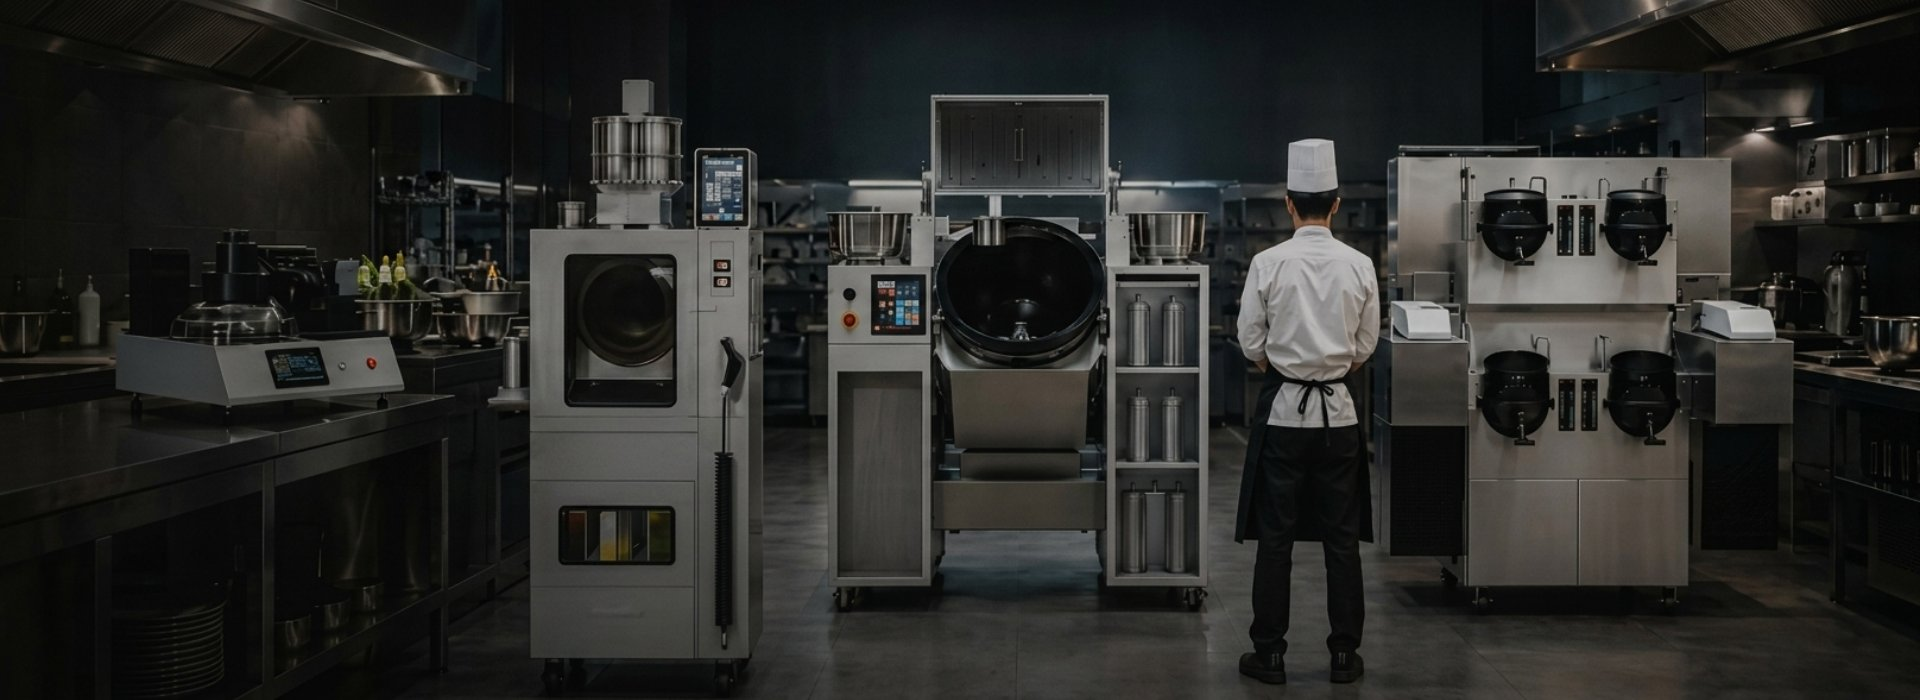
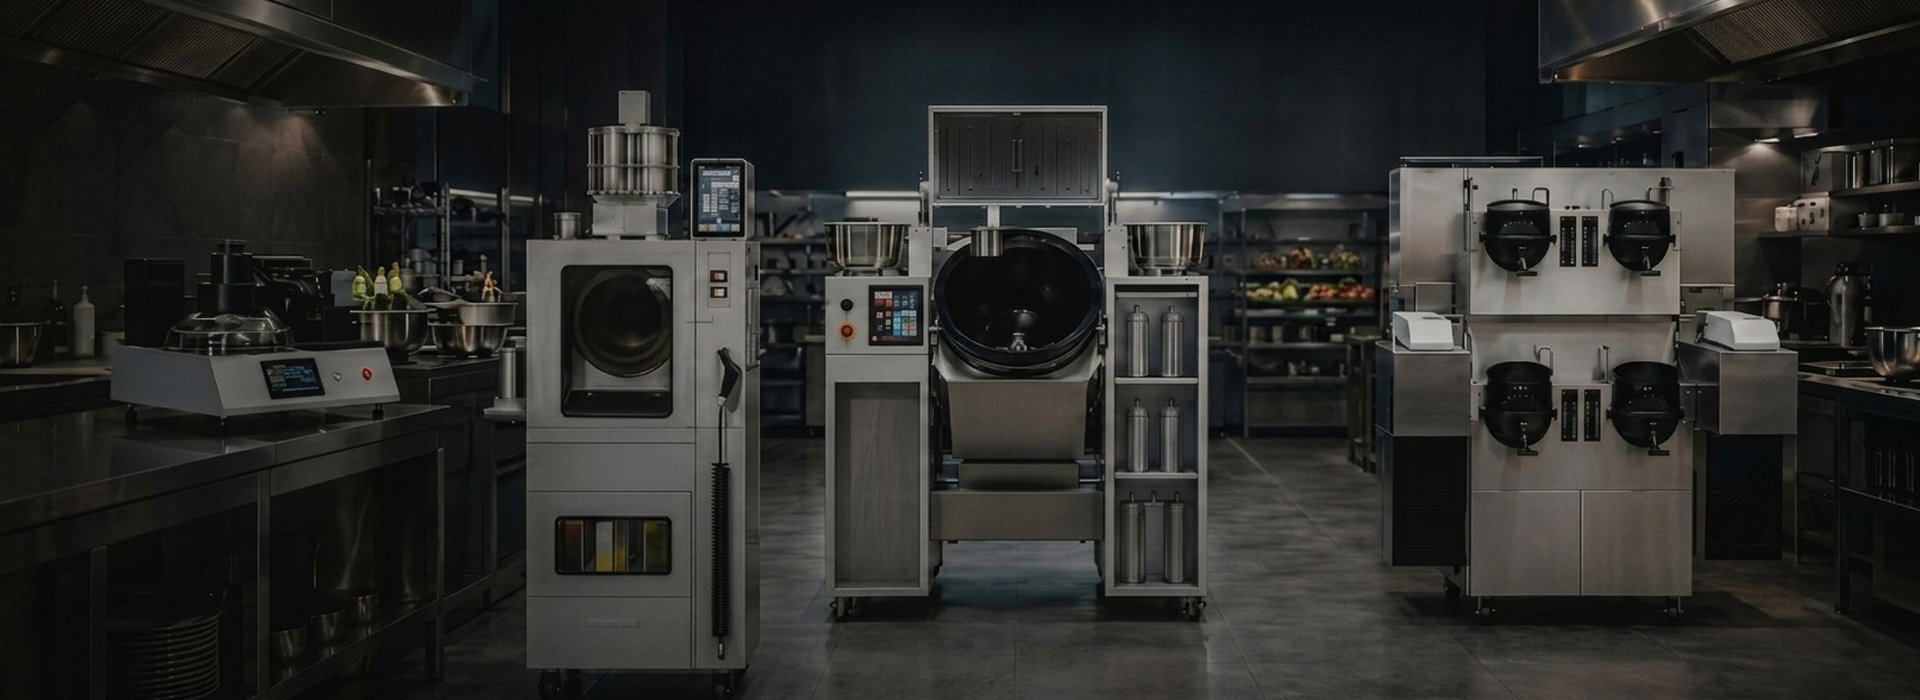
Add 6 application-scenario images (left-image/right-text layout); restore hero-bg tracking

diff --git a/index.html b/index.html
@@ -250,13 +250,55 @@
         <h2>Built for Real Commercial Kitchens</h2>
         <p>Dongji's smart cooking robots fit a wide range of foodservice formats and operations.</p>
       </div>
-      <div class="solution-grid">
-        <div class="solution-item"><span class="sol-ico">🍜</span><h3>Chain QSR</h3><p>Standardized output, less reliance on chefs, consistent taste and efficiency.</p></div>
-        <div class="solution-item"><span class="sol-ico">🥡</span><h3>Delivery / Light Meals</h3><p>Small footprint, high turnover — ideal for delivery-heavy prep.</p></div>
-        <div class="solution-item"><span class="sol-ico">🏫</span><h3>Canteen / School</h3><p>High-volume continuous cooking for centralized meal service.</p></div>
-        <div class="solution-item"><span class="sol-ico">🏨</span><h3>Hotel / Buffet</h3><p>Live cooking display that elevates the dining experience.</p></div>
-        <div class="solution-item"><span class="sol-ico">🏪</span><h3>Unmanned Restaurant</h3><p>Fully automated workflow supports unmanned and 24/7 operation.</p></div>
-        <div class="solution-item"><span class="sol-ico">📦</span><h3>Equipment Brands</h3><p>Contract manufacturing + branding quickly expands your portfolio.</p></div>
+            <div class="solution-grid">
+        <div class="solution-item">
+          <div class="solution-img"><img src="images/solution-qsr.jpg" alt="Chain fast food smart kitchen" loading="lazy"></div>
+          <div class="solution-body">
+            <span class="sol-ico">🍜</span>
+            <h3>Chain QSR</h3>
+            <p>Standardized output, less reliance on chefs, consistent taste and efficiency.</p>
+          </div>
+        </div>
+        <div class="solution-item">
+          <div class="solution-img"><img src="images/solution-delivery.jpg" alt="Delivery ghost kitchen" loading="lazy"></div>
+          <div class="solution-body">
+            <span class="sol-ico">🥡</span>
+            <h3>Delivery / Light Meals</h3>
+            <p>Small footprint, high turnover — ideal for delivery-heavy prep.</p>
+          </div>
+        </div>
+        <div class="solution-item">
+          <div class="solution-img"><img src="images/solution-canteen.jpg" alt="Canteen school kitchen" loading="lazy"></div>
+          <div class="solution-body">
+            <span class="sol-ico">🏫</span>
+            <h3>Canteen / School</h3>
+            <p>High-volume continuous cooking for centralized meal service.</p>
+          </div>
+        </div>
+        <div class="solution-item">
+          <div class="solution-img"><img src="images/solution-hotel.jpg" alt="Hotel buffet live station" loading="lazy"></div>
+          <div class="solution-body">
+            <span class="sol-ico">🏨</span>
+            <h3>Hotel / Buffet</h3>
+            <p>Live cooking display that elevates the dining experience.</p>
+          </div>
+        </div>
+        <div class="solution-item">
+          <div class="solution-img"><img src="images/solution-unmanned.jpg" alt="Unmanned automated restaurant" loading="lazy"></div>
+          <div class="solution-body">
+            <span class="sol-ico">🏪</span>
+            <h3>Unmanned Restaurant</h3>
+            <p>Fully automated workflow supports unmanned and 24/7 operation.</p>
+          </div>
+        </div>
+        <div class="solution-item">
+          <div class="solution-img"><img src="images/solution-oem.jpg" alt="OEM manufacturing line" loading="lazy"></div>
+          <div class="solution-body">
+            <span class="sol-ico">📦</span>
+            <h3>Equipment Brands</h3>
+            <p>Contract manufacturing + branding quickly expands your portfolio.</p>
+          </div>
+        </div>
       </div>
     </div>
   </section>

diff --git a/zh.html b/zh.html
@@ -250,13 +250,55 @@
         <h2>为真实商用厨房而生</h2>
         <p>东吉代工的智能炒菜机，适配多种餐饮业态与运营场景。</p>
       </div>
-      <div class="solution-grid">
-        <div class="solution-item"><span class="sol-ico">🍜</span><h3>连锁快餐</h3><p>标准化出品，减少厨师依赖，稳定口味与效率。</p></div>
-        <div class="solution-item"><span class="sol-ico">🥡</span><h3>外卖 / 轻食</h3><p>小占地高翻台，适配外卖集中出餐场景。</p></div>
-        <div class="solution-item"><span class="sol-ico">🏫</span><h3>团餐 / 学校</h3><p>大批量连续烹饪，满足集中供餐需求。</p></div>
-        <div class="solution-item"><span class="sol-ico">🏨</span><h3>酒店 / 自助</h3><p>现炒现做展示，提升用餐体验与档次。</p></div>
-        <div class="solution-item"><span class="sol-ico">🏪</span><h3>无人餐厅</h3><p>全自动流程，支持无人化与 24h 运营。</p></div>
-        <div class="solution-item"><span class="sol-ico">📦</span><h3>设备品牌商</h3><p>整机代工 + 品牌定制，快速扩充产品矩阵。</p></div>
+            <div class="solution-grid">
+        <div class="solution-item">
+          <div class="solution-img"><img src="images/solution-qsr.jpg" alt="连锁快餐智能厨房" loading="lazy"></div>
+          <div class="solution-body">
+            <span class="sol-ico">🍜</span>
+            <h3>连锁快餐</h3>
+            <p>标准化出品，减少厨师依赖，稳定口味与效率。</p>
+          </div>
+        </div>
+        <div class="solution-item">
+          <div class="solution-img"><img src="images/solution-delivery.jpg" alt="外卖轻食厨房" loading="lazy"></div>
+          <div class="solution-body">
+            <span class="sol-ico">🥡</span>
+            <h3>外卖 / 轻食</h3>
+            <p>小占地高翻台，适配外卖集中出餐场景。</p>
+          </div>
+        </div>
+        <div class="solution-item">
+          <div class="solution-img"><img src="images/solution-canteen.jpg" alt="团餐学校厨房" loading="lazy"></div>
+          <div class="solution-body">
+            <span class="sol-ico">🏫</span>
+            <h3>团餐 / 学校</h3>
+            <p>大批量连续烹饪，满足集中供餐需求。</p>
+          </div>
+        </div>
+        <div class="solution-item">
+          <div class="solution-img"><img src="images/solution-hotel.jpg" alt="酒店自助餐明档" loading="lazy"></div>
+          <div class="solution-body">
+            <span class="sol-ico">🏨</span>
+            <h3>酒店 / 自助</h3>
+            <p>现炒现做展示，提升用餐体验与档次。</p>
+          </div>
+        </div>
+        <div class="solution-item">
+          <div class="solution-img"><img src="images/solution-unmanned.jpg" alt="无人餐厅" loading="lazy"></div>
+          <div class="solution-body">
+            <span class="sol-ico">🏪</span>
+            <h3>无人餐厅</h3>
+            <p>全自动流程，支持无人化与 24h 运营。</p>
+          </div>
+        </div>
+        <div class="solution-item">
+          <div class="solution-img"><img src="images/solution-oem.jpg" alt="设备品牌代工产线" loading="lazy"></div>
+          <div class="solution-body">
+            <span class="sol-ico">📦</span>
+            <h3>设备品牌商</h3>
+            <p>整机代工 + 品牌定制，快速扩充产品矩阵。</p>
+          </div>
+        </div>
       </div>
     </div>
   </section>

diff --git a/css/style.css b/css/style.css
@@ -355,13 +355,40 @@ ul { list-style: none; }
 .solution-grid { display: grid; grid-template-columns: repeat(3, 1fr); gap: 20px; }
 .solution-item {
   background: var(--surface); border: 1px solid var(--line);
-  border-radius: var(--radius); padding: 28px 24px;
+  border-radius: var(--radius); padding: 0;
+  display: flex; flex-direction: row; overflow: hidden;
   transition: transform 0.3s var(--ease), border-color 0.3s;
+  min-height: 220px;
 }
 .solution-item:hover { transform: translateY(-6px); border-color: rgba(255,106,19,0.35); }
-.sol-ico { font-size: 30px; }
-.solution-item h3 { font-size: 18px; margin: 14px 0 8px; }
-.solution-item p { font-size: 14px; color: var(--text-dim); }
+.solution-img {
+  flex: 0 0 48%; position: relative; overflow: hidden;
+  min-height: 100%;
+}
+.solution-img img {
+  position: absolute; inset: 0; width: 100%; height: 100%;
+  object-fit: cover; display: block;
+  transition: transform 0.5s var(--ease);
+}
+.solution-item:hover .solution-img img { transform: scale(1.05); }
+.solution-body {
+  flex: 1 1 auto; padding: 24px 22px;
+  display: flex; flex-direction: column; justify-content: center;
+}
+.sol-ico { font-size: 28px; line-height: 1; }
+.solution-body h3 { font-size: 17px; margin: 12px 0 8px; }
+.solution-body p { font-size: 13px; color: var(--text-dim); line-height: 1.6; margin: 0; }
+
+@media (max-width: 1100px) {
+  .solution-grid { grid-template-columns: repeat(2, 1fr); }
+}
+@media (max-width: 740px) {
+  .solution-grid { grid-template-columns: 1fr; }
+  .solution-item { flex-direction: column; min-height: auto; }
+  .solution-img { flex: 0 0 auto; height: 180px; min-height: auto; }
+  .solution-img img { position: static; }
+  .solution-body { padding: 20px; }
+}
 
 /* ---------- Process ---------- */
 .process { background: var(--bg-2); }
